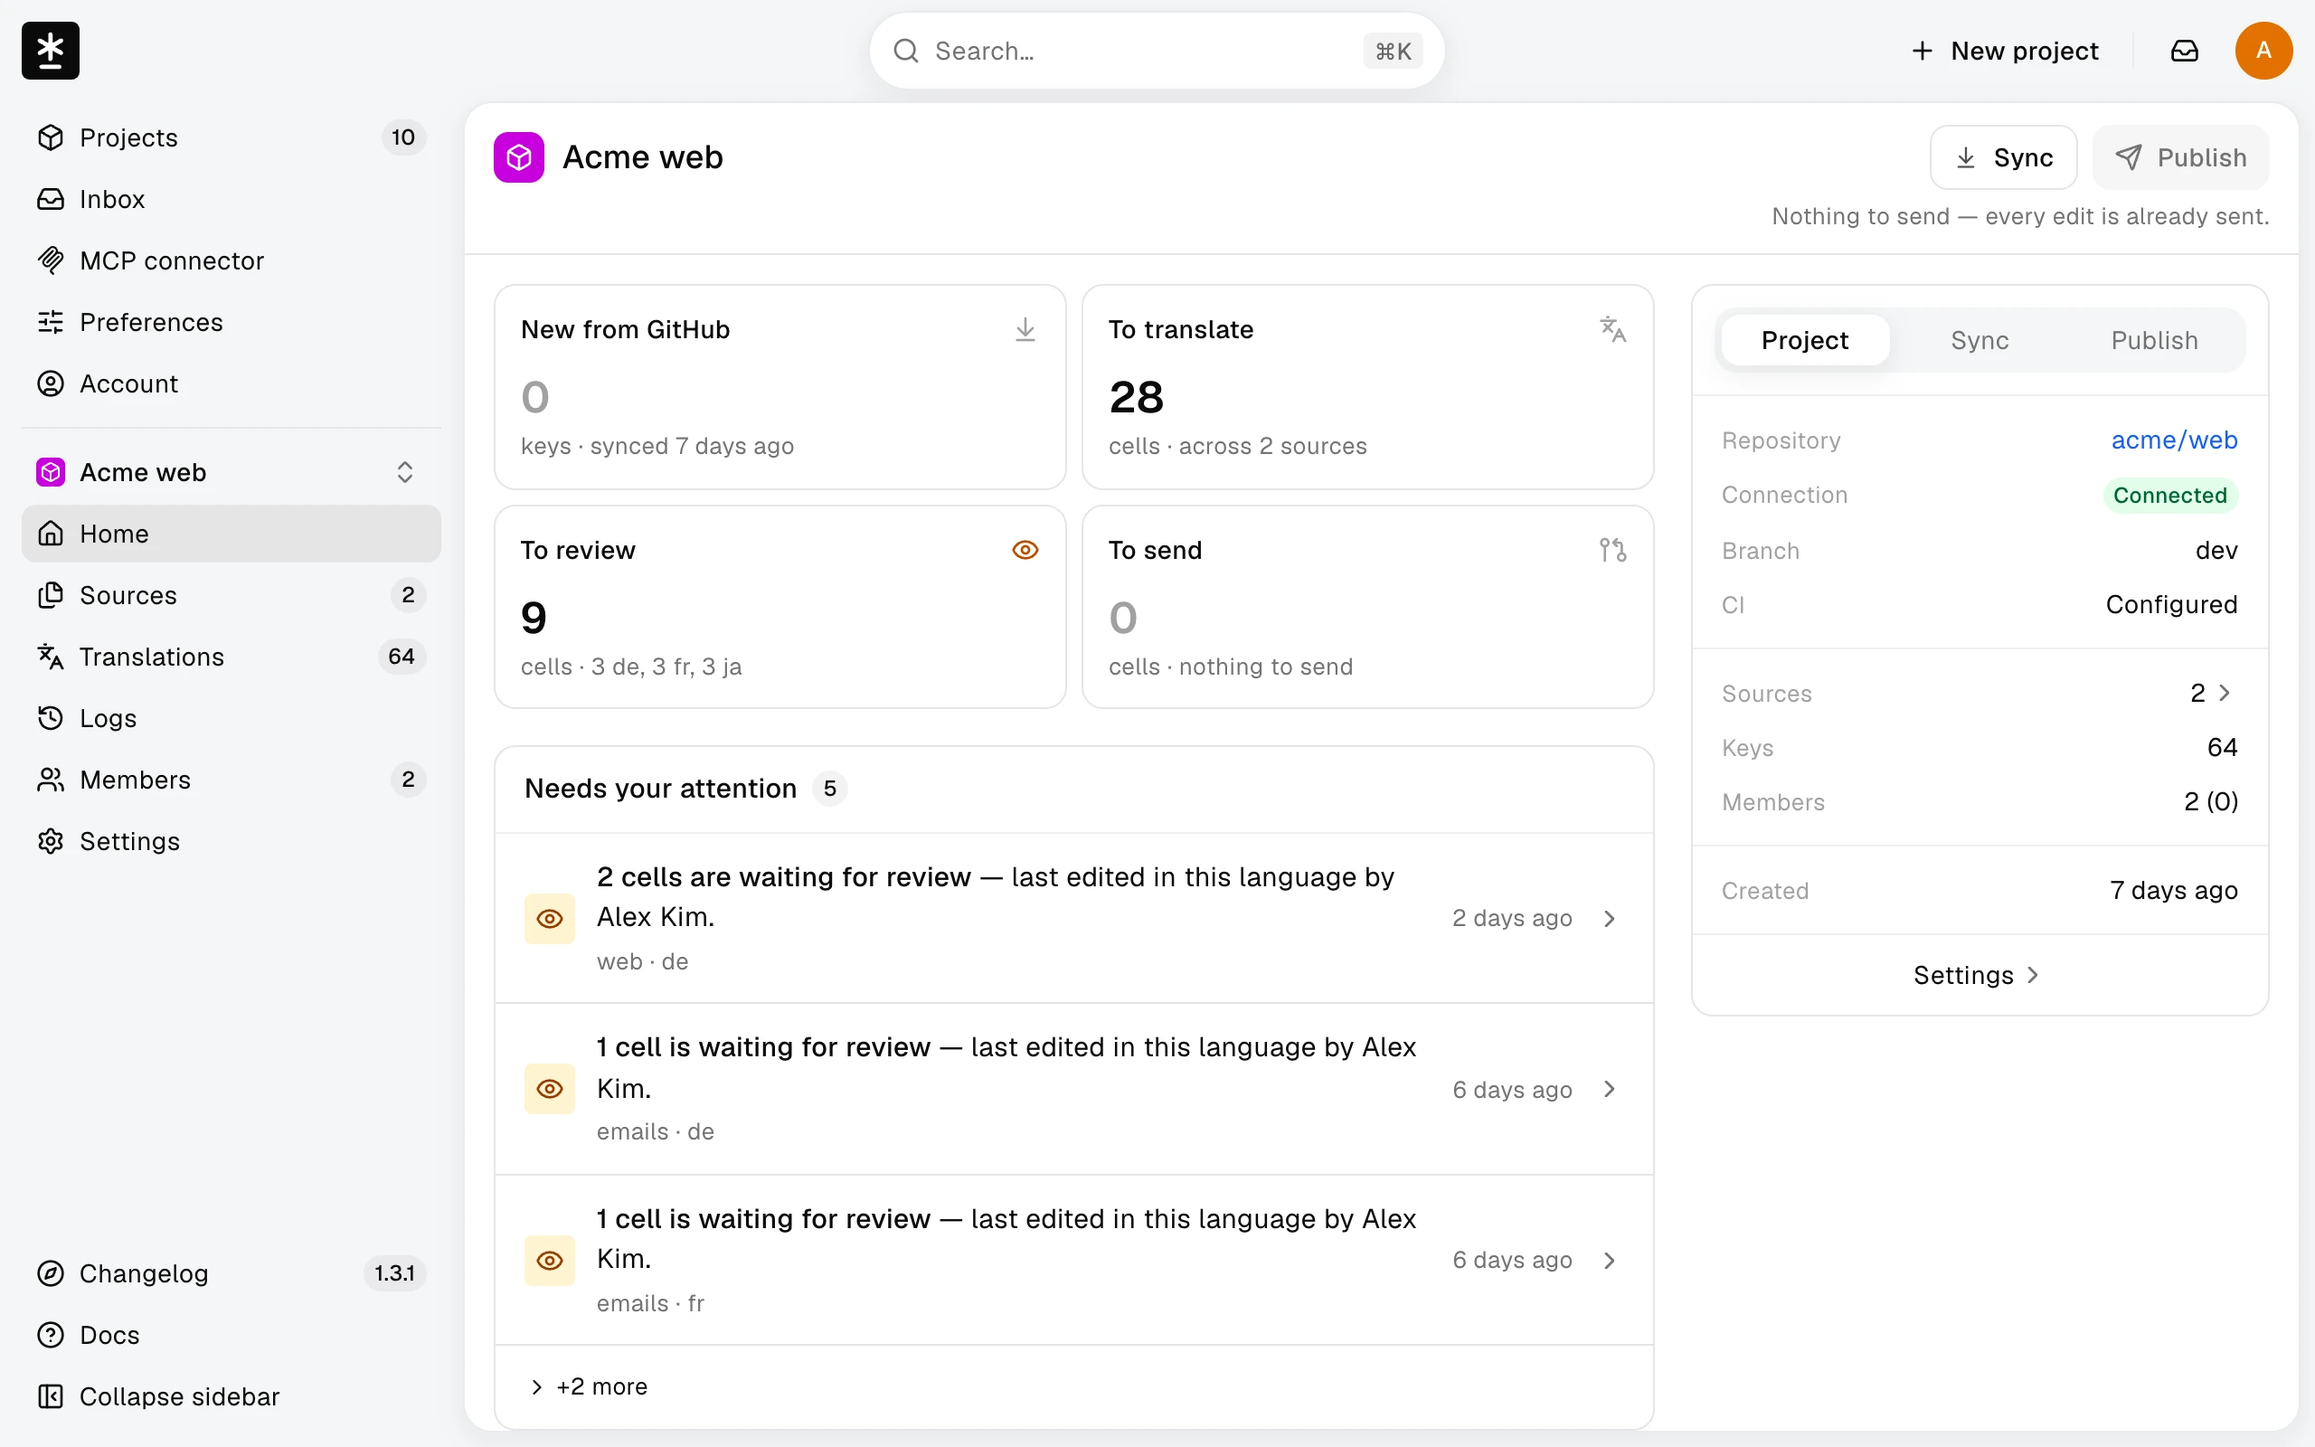
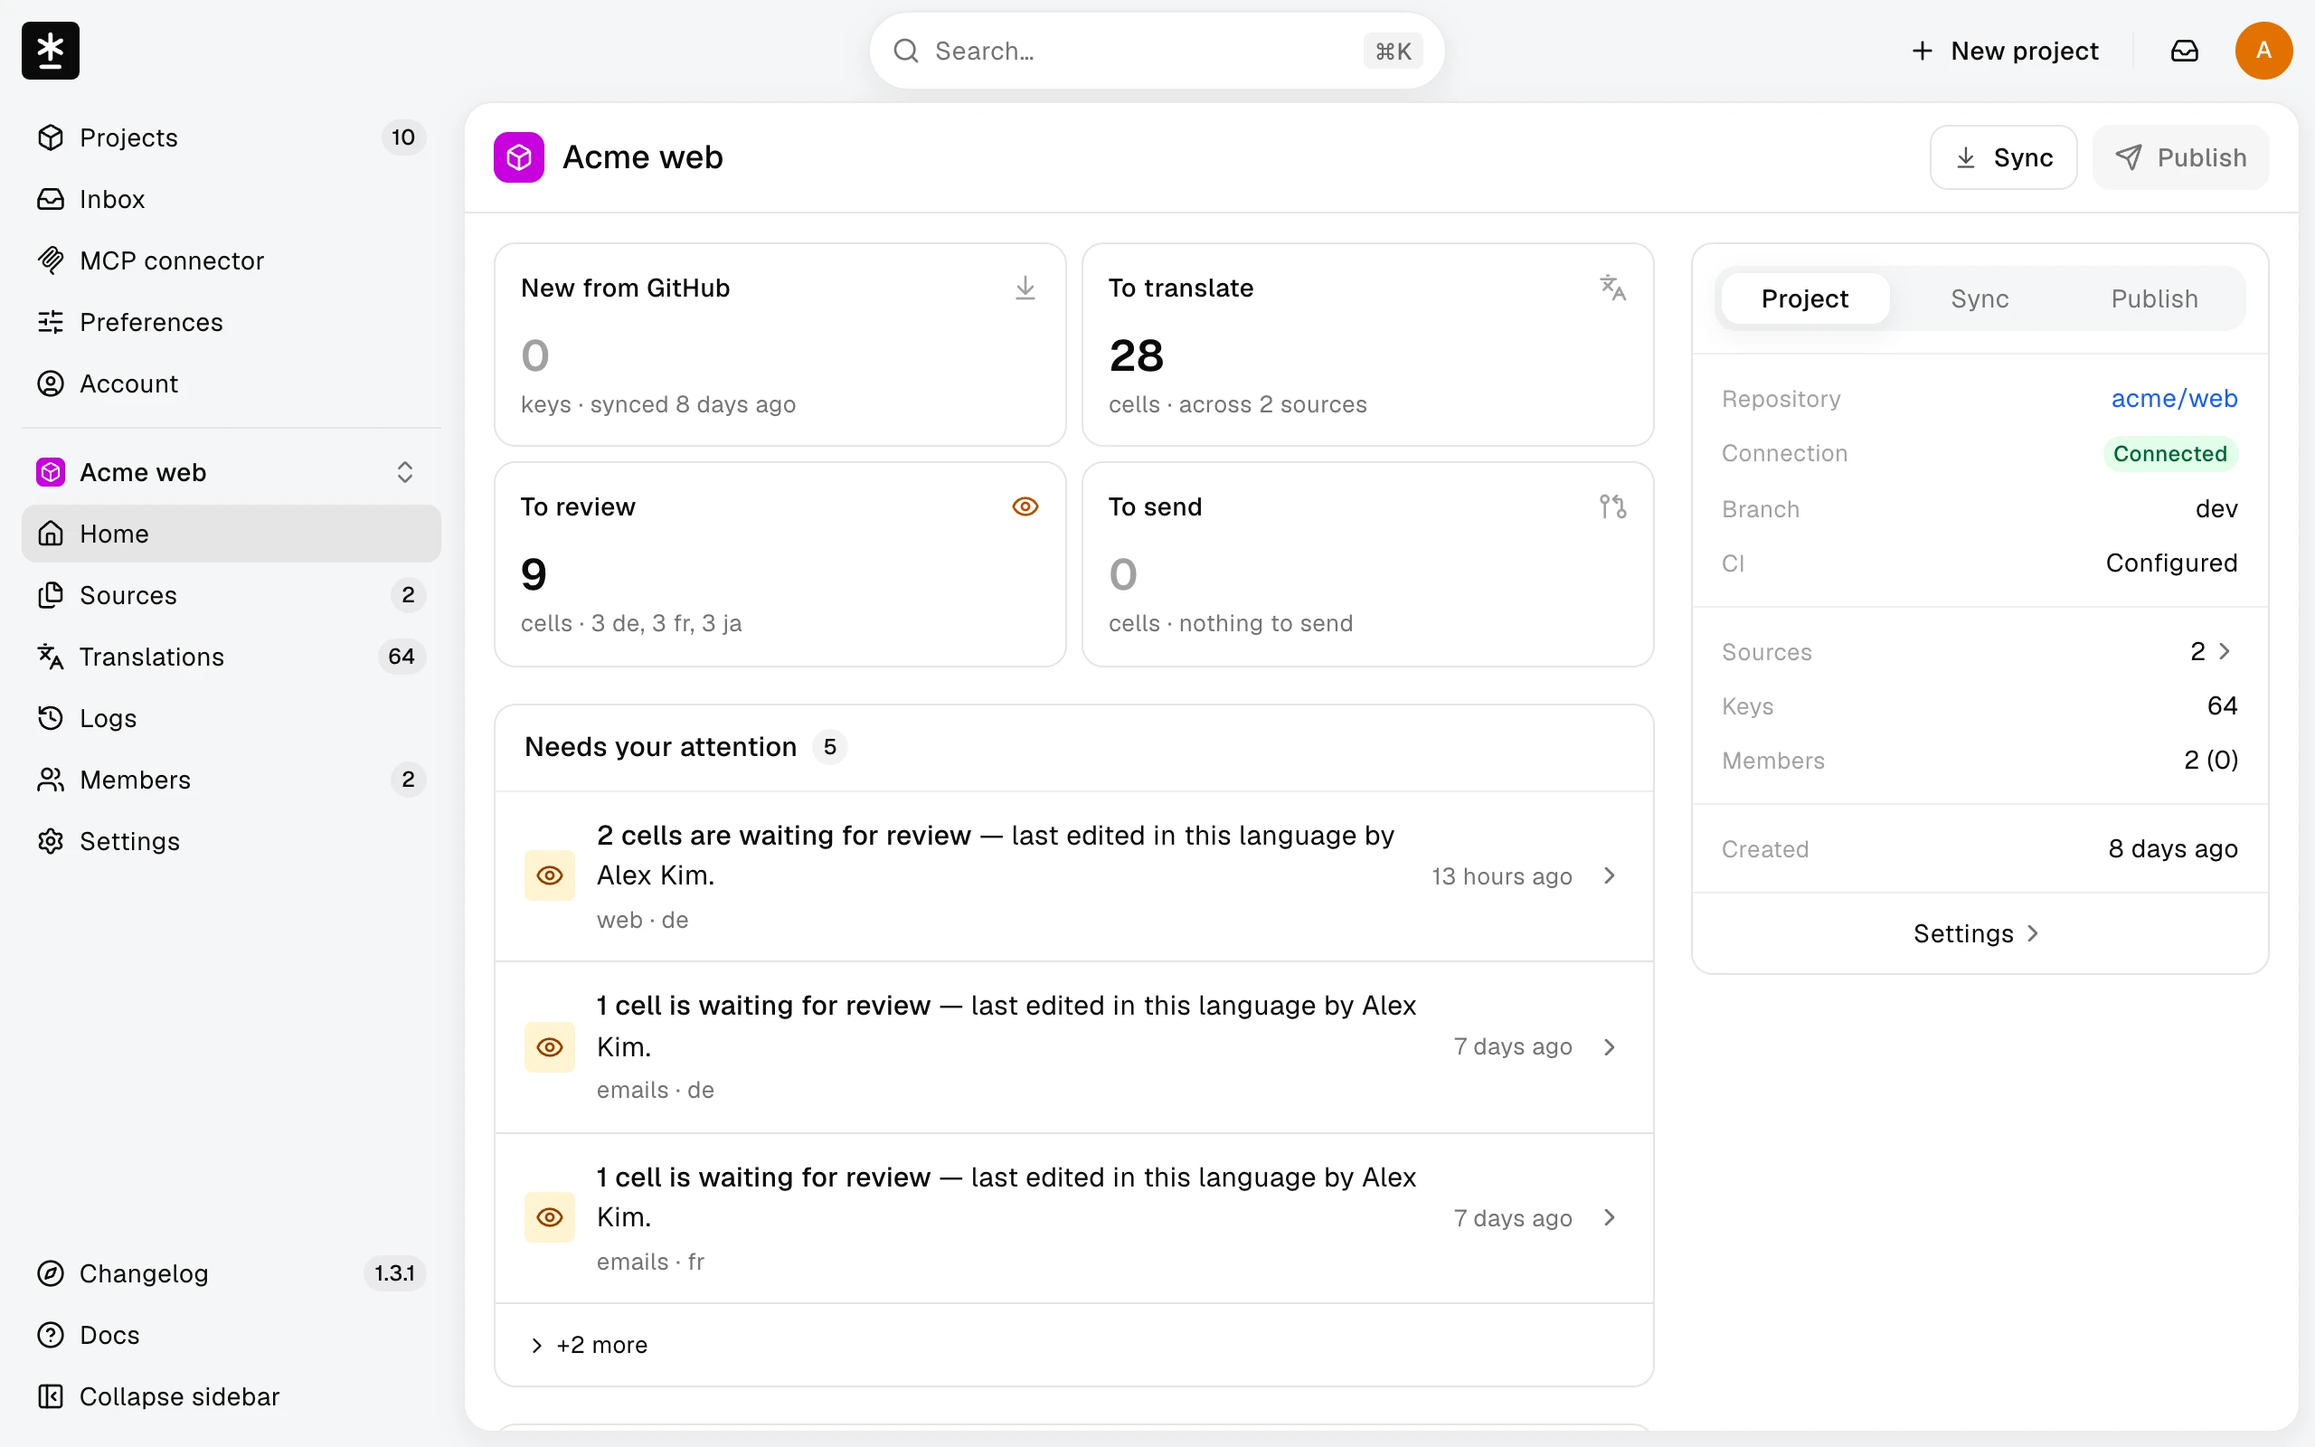
docs(guide): retake shots after the disabled-reason line revert

diff --git a/guide/SHOOTING.md b/guide/SHOOTING.md
@@ -122,9 +122,9 @@
 | /guide/push-token-secret.webp | lib/onboarding/workflow.ts | de45de3dad10e1231c932e05ddc616b5397b29d1 | 2560x1600 |
 | /guide/workflow-file.webp | components/settings/ci-card.tsx, components/onboarding/workflow-block.tsx, lib/onboarding/workflow.ts | 90dcb75e83ac0ed2d4b9b0362bcf2ec0de4ac009, 13a0bbaf8bae47bc0995b3ba5710b84ecdb4a3cf, de45de3dad10e1231c932e05ddc616b5397b29d1 | 2560x1600 |
 | /guide/actions-policy.webp | lib/onboarding/workflow.ts, .github/actions/malmoi-i18n-push/action.yml | de45de3dad10e1231c932e05ddc616b5397b29d1, 559ddc28bcd1c0fa8f4a1946dd15f7e8fcd0f03d | 2560x1600 |
-| /guide/translation-editor.webp | components/translations/workspace/key-list.tsx, components/translations/workspace/locale-panel.tsx, components/translations/workspace/workspace.tsx, components/translations/workspace/tree-panel.tsx | 2c42ea96c69fe2f89dd975ed4d0435bab8f2df2b, 16a52148f9dd92485ab8e8c1df19e4045de91a50, 4a9204311201c021ce400e8e97ac3a62e61a8eed, 1e93cf6e783081414d514b315d21dd4578602550 | 2560x1600 |
-| /guide/publish-preview.webp | components/publish-button.tsx, lib/publish/preview.ts | cf73055a34a1fbdf97368a40af8ed273fefca1d2, aab60c85f05f99f32e26d6a47b3a6e6721313f37 | 2560x1600 |
-| /guide/project-home.webp | app/(edit)/projects/[slug]/(home)/page.tsx, components/home/count-cards.tsx, components/home/meta-column.tsx, components/home/meta-tabs.tsx | 132a1691d4d0260f1703fdadd998223af343ec7a, 82bc47ebbf79fe2d66902ffb828abffe96bbcd08, 607654710bbd5111f2fa6961e7e605a04dac2aac, 326a71e9fadefec3992bad2e9acf0192fa107a35 | 2560x1600 |
+| /guide/translation-editor.webp | components/translations/workspace/key-list.tsx, components/translations/workspace/locale-panel.tsx, components/translations/workspace/workspace.tsx, components/translations/workspace/tree-panel.tsx | 2c42ea96c69fe2f89dd975ed4d0435bab8f2df2b, 16a52148f9dd92485ab8e8c1df19e4045de91a50, 32972c68cc8208290a535b09c7ce119ea9fc994e, 1e93cf6e783081414d514b315d21dd4578602550 | 2560x1600 |
+| /guide/publish-preview.webp | components/publish-button.tsx, lib/publish/preview.ts | 3df9f9dc9e703736400d2247d26c9d35b40b7407, aab60c85f05f99f32e26d6a47b3a6e6721313f37 | 2560x1600 |
+| /guide/project-home.webp | app/(edit)/projects/[slug]/(home)/page.tsx, components/home/count-cards.tsx, components/home/meta-column.tsx, components/home/meta-tabs.tsx | 2b9f8aa972bc5c8e02b6d9207067e7215d94b663, 82bc47ebbf79fe2d66902ffb828abffe96bbcd08, 607654710bbd5111f2fa6961e7e605a04dac2aac, 326a71e9fadefec3992bad2e9acf0192fa107a35 | 2560x1600 |
 | /guide/invite-members.webp | components/members/invite-modal.tsx | eb7d59815ce95f005cb00d3a9825c6180c0e1b5d | 2560x1600 |
 | /guide/members.webp | components/members/member-list.tsx, components/members/member-row.tsx, components/members/pending-invitations.tsx | 6c11618f5cf3a604dbc8245f1beb026e98a25cc3, c22d96684a0ffbfbe2fdda0b36db5ca310a200e9, bb3be5dd03f9eded04f737c4a007e01e44435210 | 2560x1600 |
 | /guide/sources.webp | components/sources/sources-screen.tsx, components/sources/source-status.tsx | fcc1768b4ab759697b58bb10737151f8cb6783cc, 3df5a25bcf1d94eee8d15176730ab652a9c18a9c | 2560x1600 |
@@ -134,11 +134,11 @@
 | /guide/state-filter.webp | components/translations/workspace/filter-menu.tsx, components/translations/workspace/key-list.tsx, dict:translations.workspace.filters.state.any, dict:translations.workspace.filters.state.incomplete, dict:translations.workspace.filters.state.unsent, dict:translations.workspace.filters.state.review, dict:translations.workspace.filters.state.new | 0d6e722c777ce3d4d3cdba98015793f38c2cbb4a, 2c42ea96c69fe2f89dd975ed4d0435bab8f2df2b, b823bb9b42b3672439670b5267fe5328d7524380, 387fd1bbc18419e26c612f4acad9213e5073ade4, 0d09fa0d8c890b48da20aefe409a39eb962b5114, 33a506cf6ec5a56c261838f0a5a3d29cd7f2dacc, 56539cd31aeb7453fb2900c2952b988146fd6127 | 2560x1600 |
 | /guide/inbox-open.webp | components/shell/attention-inbox.tsx, lib/home/attention-view.ts, lib/inbox/plan.ts, components/inbox/row-slots.tsx | 923e6db193fd4c529d08b90415ec621c149ea0b2, edbbb141b2877391ee384376b69298ae30d301da, 4145fd76f2c3729a2975d9c5f53c87195e710f80, 733b1e879b07ca09c03a8687fde5d75a037fde68 | 2560x1600 |
 | /guide/inbox-page.webp | app/(edit)/inbox/page.tsx, components/inbox/inbox-list.tsx, components/inbox/row-slots.tsx, lib/inbox/plan.ts | df74c31a4dd36d61615638890d73981e0d854782, be439ea0b57a08136990b9c26fa176cb9a84c38e, 733b1e879b07ca09c03a8687fde5d75a037fde68, 4145fd76f2c3729a2975d9c5f53c87195e710f80 | 2560x1600 |
-| /guide/home-publish.webp | app/(edit)/projects/[slug]/(home)/page.tsx, components/home/count-cards.tsx, components/publish-button.tsx | 132a1691d4d0260f1703fdadd998223af343ec7a, 82bc47ebbf79fe2d66902ffb828abffe96bbcd08, cf73055a34a1fbdf97368a40af8ed273fefca1d2 | 2560x1600 |
-| /guide/publish-result.webp | components/publish-button.tsx | cf73055a34a1fbdf97368a40af8ed273fefca1d2 | 2560x1600 |
-| /guide/home-paused.webp | app/(edit)/projects/[slug]/(home)/page.tsx, components/home/count-cards.tsx, components/home/meta-column.tsx, components/home/meta-tabs.tsx, dict:home.cards.held.pending-edits | 132a1691d4d0260f1703fdadd998223af343ec7a, 82bc47ebbf79fe2d66902ffb828abffe96bbcd08, 607654710bbd5111f2fa6961e7e605a04dac2aac, 326a71e9fadefec3992bad2e9acf0192fa107a35, e7daa697ea395700d6e0a57f5dc83a59b2b30aa7 | 2560x1600 |
-| /guide/revert-confirm.webp | components/translations/workspace/workspace.tsx, components/translations/edit-loss-banner.tsx, components/translations/workspace/key-list.tsx | 4a9204311201c021ce400e8e97ac3a62e61a8eed, 7023551d6321a4c52d0f5160710a2498e7a85695, 2c42ea96c69fe2f89dd975ed4d0435bab8f2df2b | 2560x1600 |
-| /guide/sync-discard.webp | components/home/sync-button.tsx | 43c0ad2c347ceb972edf1be872722f4f8d60e848 | 2560x1600 |
+| /guide/home-publish.webp | app/(edit)/projects/[slug]/(home)/page.tsx, components/home/count-cards.tsx, components/publish-button.tsx | 2b9f8aa972bc5c8e02b6d9207067e7215d94b663, 82bc47ebbf79fe2d66902ffb828abffe96bbcd08, 3df9f9dc9e703736400d2247d26c9d35b40b7407 | 2560x1600 |
+| /guide/publish-result.webp | components/publish-button.tsx | 3df9f9dc9e703736400d2247d26c9d35b40b7407 | 2560x1600 |
+| /guide/home-paused.webp | app/(edit)/projects/[slug]/(home)/page.tsx, components/home/count-cards.tsx, components/home/meta-column.tsx, components/home/meta-tabs.tsx, dict:home.cards.held.pending-edits | 2b9f8aa972bc5c8e02b6d9207067e7215d94b663, 82bc47ebbf79fe2d66902ffb828abffe96bbcd08, 607654710bbd5111f2fa6961e7e605a04dac2aac, 326a71e9fadefec3992bad2e9acf0192fa107a35, e7daa697ea395700d6e0a57f5dc83a59b2b30aa7 | 2560x1600 |
+| /guide/revert-confirm.webp | components/translations/workspace/workspace.tsx, components/translations/edit-loss-banner.tsx, components/translations/workspace/key-list.tsx | 32972c68cc8208290a535b09c7ce119ea9fc994e, 1c1091fe8e495bea05b41e9022bb758b522c15e4, 2c42ea96c69fe2f89dd975ed4d0435bab8f2df2b | 2560x1600 |
+| /guide/sync-discard.webp | components/home/sync-button.tsx | 03c75034b48b58f0208b5c625d2e2f4ef7a18b35 | 2560x1600 |
 | /guide/logs-event.webp | components/logs/event-dialog.tsx, components/logs/event-detail.tsx | f76913a6d8972a169402769e9951ef6dbb9a79bb, 60f6fc110edf8df5e7774b2c1aa1cdd4f4c05998 | 2560x1600 |
 | /guide/account.webp | app/(edit)/account/page.tsx, components/account/profile-picture.tsx, components/account/login-methods.tsx, components/account/github-section.tsx | 3acac4206b74882275c3b948c2a7c452d6650798, c4ea53b3f682c942003dac5b81bb7eb80a72d269, a81d7ab6bacf7642a6b95a090713b81d89ed1be4, 555c889cb02f999c49bd06e0fc72c5c331e7d814 | 2560x1600 |
 | /guide/footer-language-menu.webp | components/i18n/locale-switcher.tsx, lib/i18n/locales.ts | c71d7813e91fdb33e9144151d6dcdf1f5f34d12d, 7ae40a45e0677ae93a26e331d74bda1680d403da | 2560x1600 |
@@ -207,3 +207,4 @@
 - 2026-10-11 responsive-public QA — `accept-invitation`·`inbox-open` **SHA만 갱신**(재촬영 없음). 이번 변경(`project-card.tsx` 식별자 줄바꿈 · `auth-layout.tsx` 좁은 폭 하한·장식 · `attention-inbox.tsx` `lg` 미만 시트·`aria-expanded`)은 1280에서 화면을 바꾸지 않는다 — 변경 전 커밋(`3a1afe68`)과 1280×800 렌더의 요소 rect·padding·색을 대조해 초대 화면 차이 0, Inbox 드롭다운 차이 0을 확인했다. ⚠ **`oauth-consent`는 그대로 stale로 둔다** — `consent-panel.tsx`의 sticky CTA가 1280에서도 서서 컷이 달라지는데(Deny·Authorize 묶음이 목록 위에 뜨고 그 아래로 마지막 행이 비친다), 그 모양을 1280 회귀로 이슈에 올렸다. 수정 뒤 재촬영한다.
 - 2026-10-11 responsive-public QA 재확인 1 — `oauth-consent` **재촬영**(2560×1600, WebP quality 90). #221 수정(동의 CTA sticky는 `lg` 미만만) 뒤 1280×800 동의 화면이 변경 전 커밋 `3a1afe68`과 **픽셀 차이 0**이라 이번 런이 바꾼 화면은 없다. 그런데 기존 컷이 그 기준과도 달랐다(이번 런 전 변경 — Auth 푸터가 가운데 `English` 하나에서 왼쪽 링크 묶음 + 오른쪽 언어·테마 스위처로 바뀌었고 본문이 가로로 약 7.5px 어긋나 있었다). SHA만 갱신하면 그 어긋남이 굳으므로 다시 찍었다. 셋업은 전과 같다: claude.ai CIMD(`claude.ai/oauth/mcp-oauth-client-metadata`, 콜백 `claude.ai/api/mcp/auth_callback`) authorize 요청, Authorize 누르지 않음, Translate & publish 하나 체크, 만료 90 days(기본), 이메일 → `alex.kim@example.com`, 아바타 이니셜 → `A`(amber 폴백 그대로), 테마 라이트(`data-theme` 고정).
 - 2026-10-11 responsive-app FIN — `guide:check` stale 22컷(41건) 정리. **재촬영 20**(1280×800 · DPR 2, WebP quality 90): `project-home` · `members` · `sources` · `account` · `preferences-language` · `workflow-file` · `invite-members` · `mcp-connector` · `create-repository` · `create-files` · `logs-event` · `home-paused` · `sync-discard` · `revert-confirm`(OWNER) · `translation-editor` · `state-filter` · `home-publish` · `publish-preview` · `publish-result`(EDITOR) · `footer-language-menu`(비로그인). 판정은 기존 파일과 새 캡처의 픽셀 대조(채널 합 60 초과 차이)였고 20장 모두 달랐다 — 화면이 바뀐 것: 페이지 머리 오른쪽 아래 사유 줄(`Nothing to send — every edit is already sent.` · EDITOR `Only project owners can sync.`) · `logs-event` 상세 표 행 높이 약 0.5px · 공개 푸터에 테마 스위처 · 온보딩 ①② 대화상자 안. 나머지는 셸 배지(Projects 10 · Changelog 1.3.1)와 상대 시각만 다르다. **SHA만 갱신 2**: `push-token-secret` · `actions-policy` — `workflow.ts`는 action 태그 `@malmoi-i18n-push-v3`와 self-hosted `api-url` 분기뿐이고, GitHub 설정 화면(Secret 폼 · 허용 패턴 `@*` 넷)은 그대로다. 셋업: OWNER·EDITOR 계정 테마를 촬영 동안 `system`(+ `prefers-color-scheme: light` 에뮬레이션)으로 두고 OWNER `dark` · EDITOR null로 되돌렸다(DB) · OWNER `checkout.submit` de `Jetzt bestellen` → `home-paused`(Sync 탭)·`sync-discard`(Cancel)·`revert-confirm` → 실제 Revert(켜져 있었다) · EDITOR는 정리된 상태에서 `translation-editor`·`state-filter`를 먼저 찍고 `checkout.submit` fr `Passer la commande` → `home-publish`·`publish-preview`(PR 안 엶) → 빈 값 재저장 → Publish(`Nothing differs`) → `publish-result` · MCP 연결 둘은 가짜 `OAuthConnection` 행(id `fin-gs-*`) → 촬영 뒤 삭제(0→0) · ①②는 Create project 근처도 가지 않았다(②에서 멈춤) · `footer-language-menu`는 로그아웃 상태 `/docs`에서 새 `project-home`을 반영한 뒤(캐시 끔) 찍었다. 전후 대조: 미전달 0→0(전 프로젝트), OAuth 연결 0→0, 프로젝트 10→10, 초대 수 그대로, `acme-web` 사건 58→63(편집·Revert · 편집·재저장·Publish), 나머지 프로젝트 사건 그대로, GitHub 쓰기 없음. ⚠ **새로 밟은 것**: ① 공통 `snap`이 대화상자 안 `SinhyeokKang` 노드를 온보딩 규칙(`alex-kim`)으로 바꾸면 `logs-event`의 행위자가 `alex-kim`이 된다 — 그 치환은 `create-*` 컷에만 건다. ② 비로그인 기기 쿠키 `malmoi-color-scheme`이 dark라 공개 셸이 다크로 그려진다 — 푸터 테마 스위처로 System을 고르고 찍은 뒤 Dark로 되돌렸다. ③ `/docs` 첫 화면의 히어로 그림은 `public/guide/project-home.webp`라, 그 컷을 바꿨으면 브라우저 캐시를 끄고(`Network.setCacheDisabled`) 다시 연다. ④ zsh에서 따옴표 없는 `$NAMES`는 낱말로 갈리지 않는다 — 매핑 재계산 스크립트에 이름을 직접 넘긴다.
+- 2026-10-11 disabled-reasons-revert T7 — `guide:check` stale 8컷(10건). 꺼진 Sync·Publish 아래 사유 줄을 걷고 `title` + sr-only로 되돌린 변경이다. **재촬영 3**(1280×800 · DPR 2, WebP quality 90): `project-home`(OWNER — 미전달 0이라 머리에 `Nothing to send…` 줄이 섰었다) · `translation-editor`(EDITOR — 꺼진 Sync 아래 `Only project owners can sync.` 줄) · `publish-result`(EDITOR — Dim 뒤 Home이 미전달 0으로 돌아가 사유 줄이 섰었다). **SHA만 갱신 5**: `home-paused` · `sync-discard` · `revert-confirm`(OWNER) · `home-publish` · `publish-preview`(EDITOR) — 미전달 1건 상태라 Sync·Publish가 켜져 있어 옛 컷에도 사유 줄이 없었다. 새 캡처와 기존 파일을 픽셀 대조(채널 합 60 초과)해 차이가 상대 시각(`7 days ago` → `8 days ago` 등)뿐임을 확인했다. `page.tsx`는 주석 한 줄이다. 셋업: 두 계정 테마를 촬영 동안 `system`(+ `prefers-color-scheme: light` 에뮬레이션)으로 두고 OWNER `dark` · EDITOR null로 되돌렸다(DB) · OWNER `checkout.submit` de `Jetzt bestellen` → 확인용 캡처 셋 → 실제 Revert · EDITOR는 정리된 상태에서 `translation-editor`를 찍은 뒤 `checkout.submit` fr `Passer la commande` → Home·미리보기(PR 안 엶) → 빈 값 재저장 → Publish(`Nothing differs`) → `publish-result`. 전후 대조: 미전달 0→0, OAuth 연결 0→0, `acme-web` 사건 63→68(편집·Revert · 편집·재저장·Publish), 전체 사건 716→721, GitHub 쓰기 없음. 마스킹 표 추가 없음.
